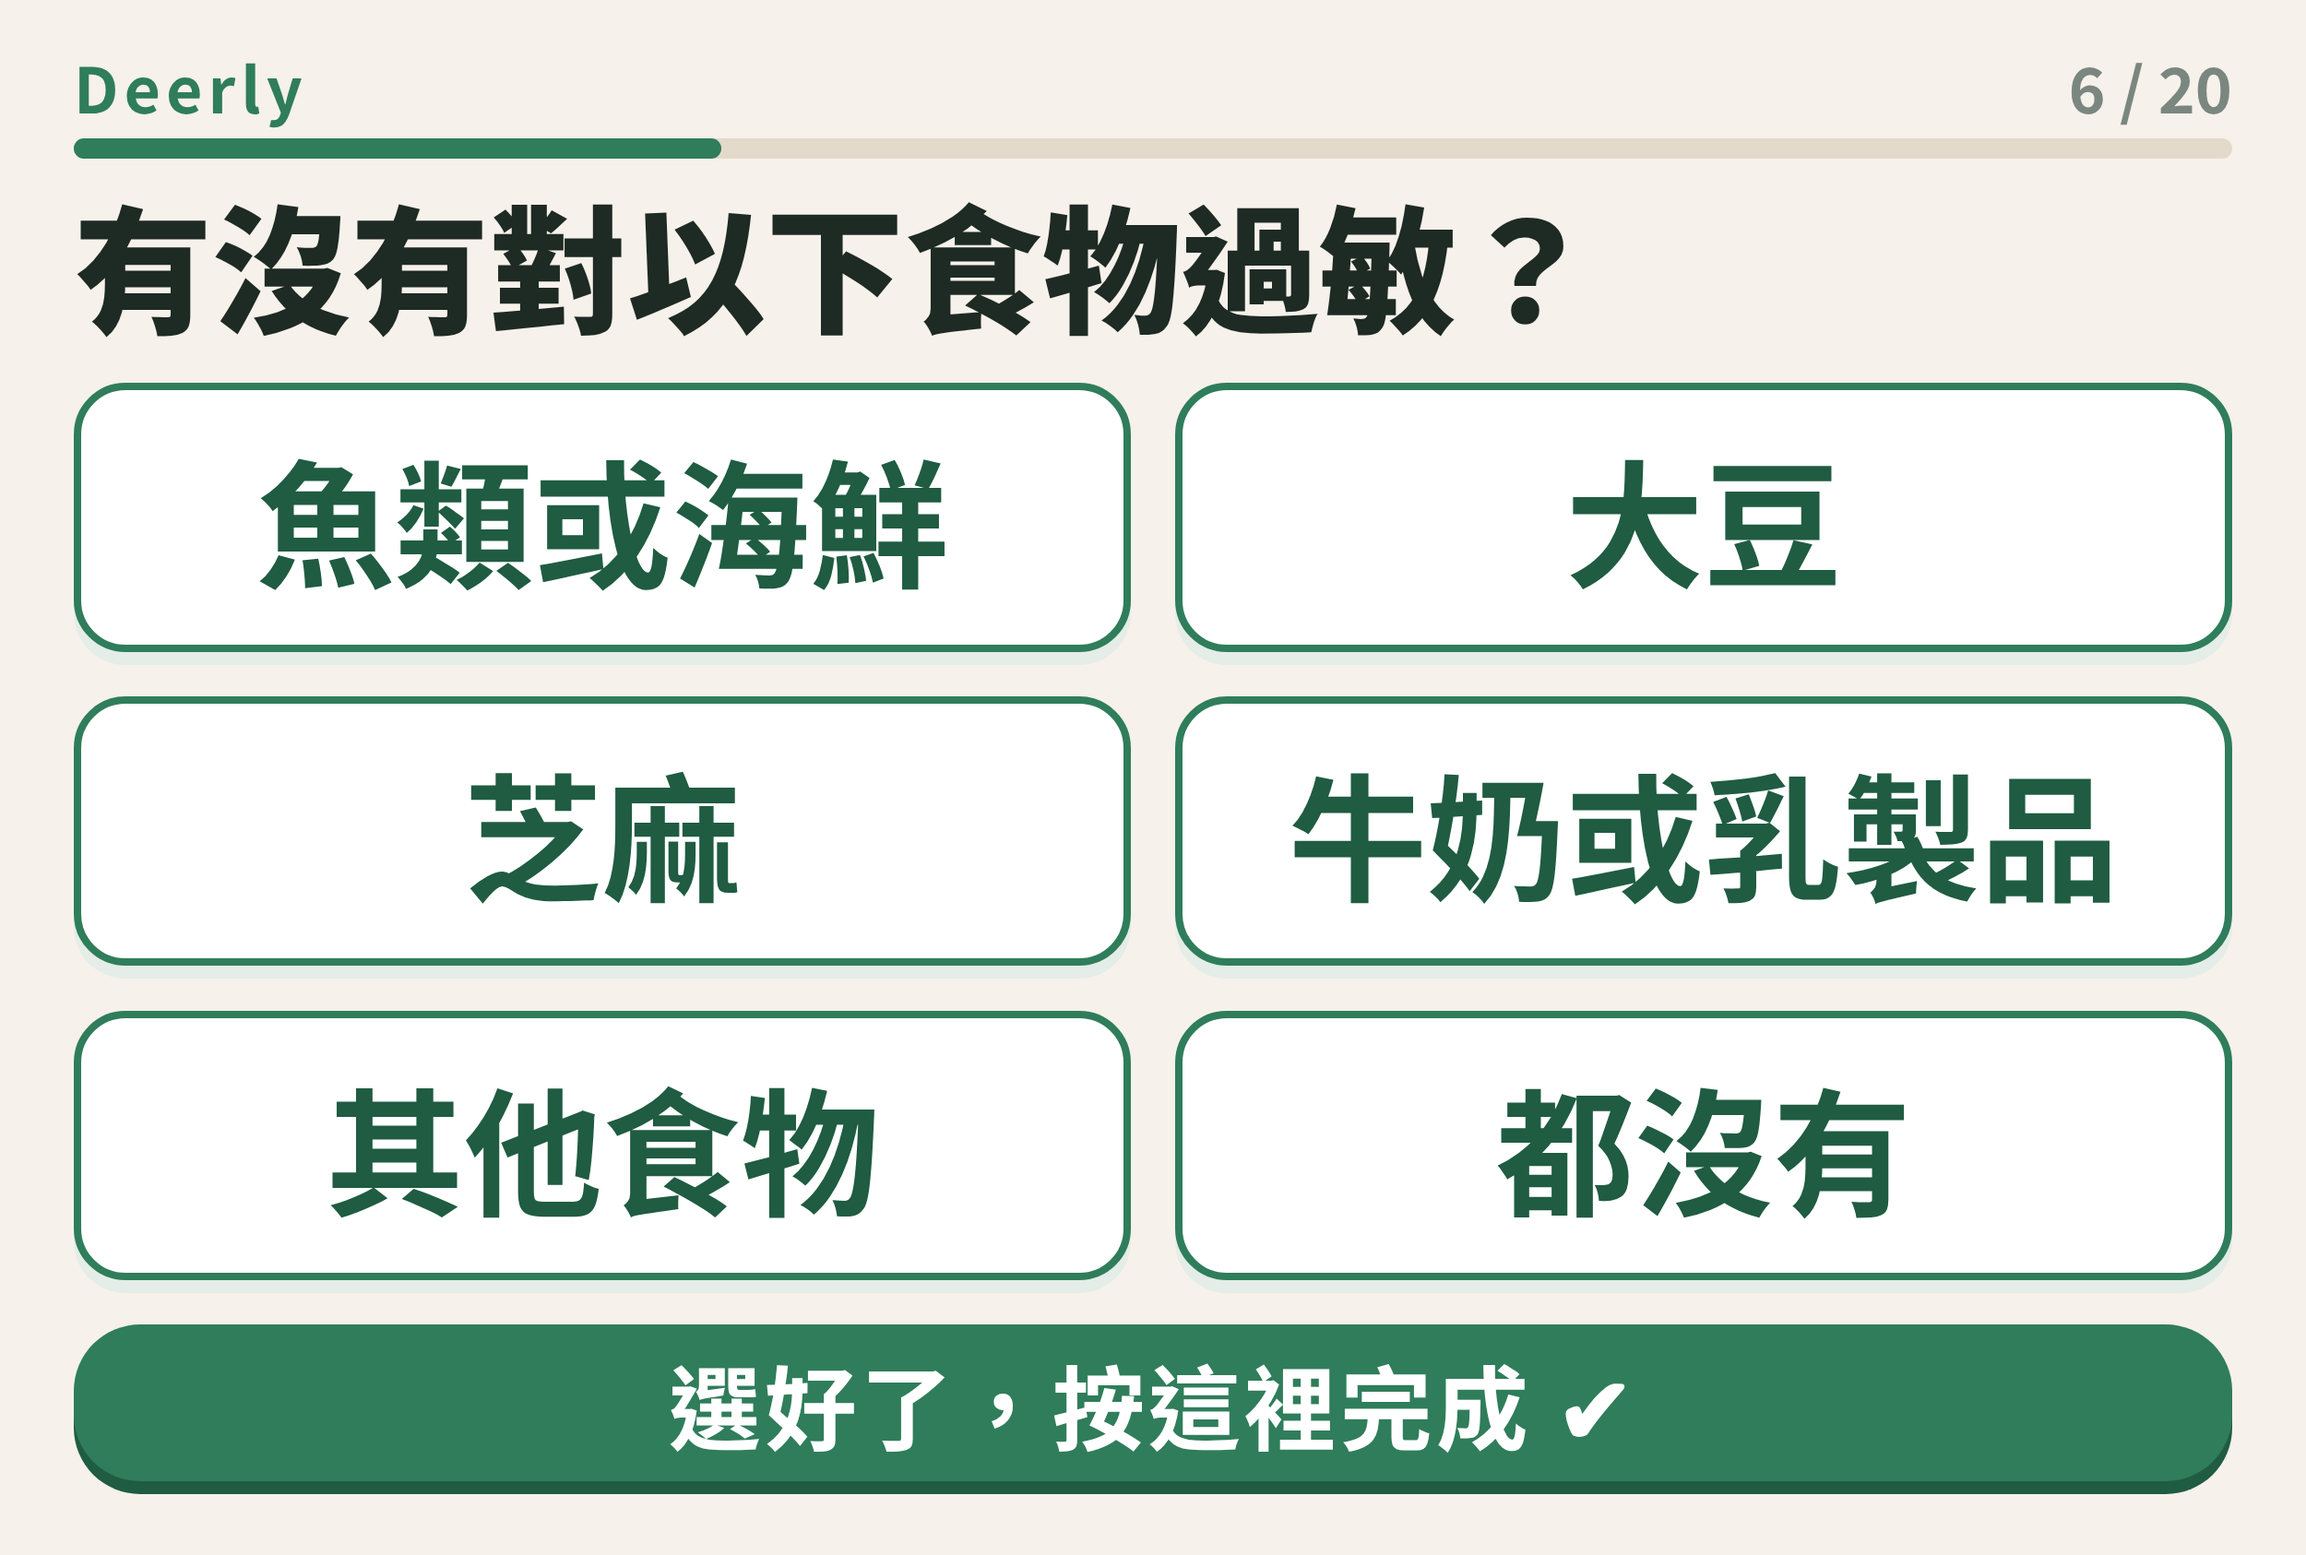
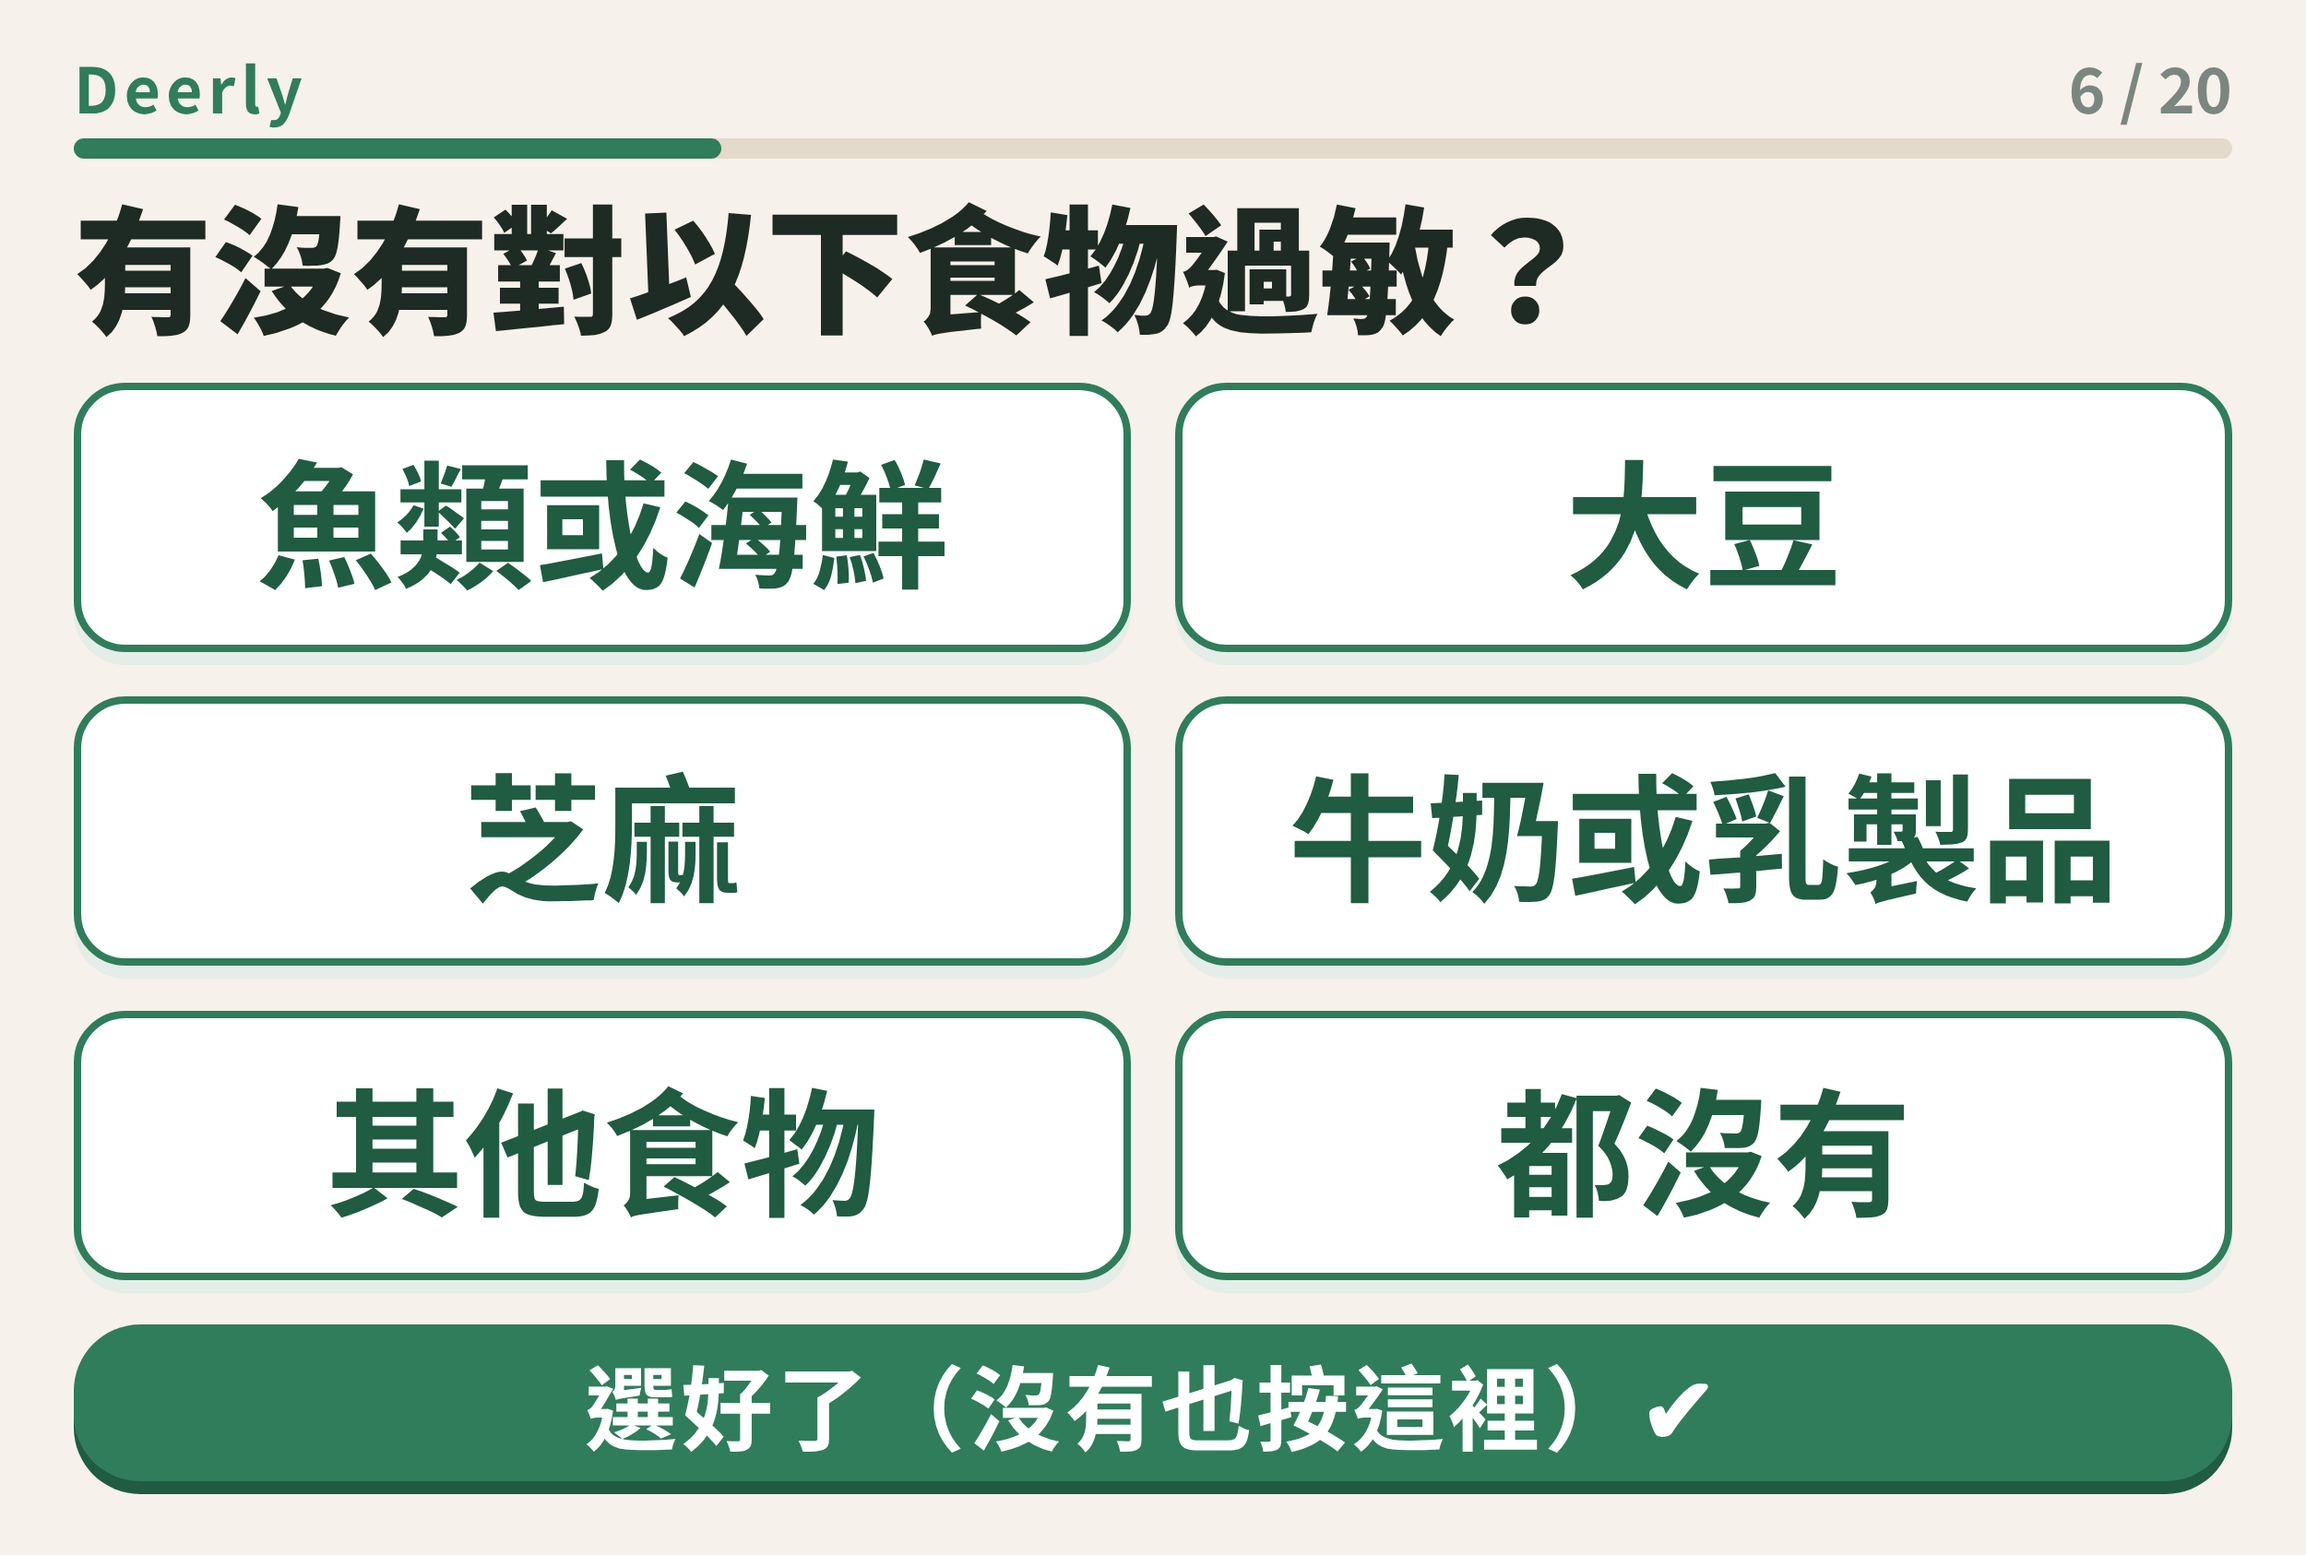
複選題空選視為「都沒有」；掃描頁標題置中、說明精簡並註明影像不儲存；偵測框改半透明品牌色塊
Claude-Session: https://claude.ai/code/session_01UspgBCkKGVVe1bFEQQRBEs

Changed region(s): [[0.2496, 0.8636, 0.7488, 0.9561]]

diff --git a/backend/linebot/handler.ts b/backend/linebot/handler.ts
@@ -130,7 +130,7 @@ async function askQuestion(sub: string, replyToken: string, s: Session, notice?:
   const q = QS.find((x) => x.id === s.cur)!;
   const n = QS.filter((x) => isShown(x, s.answers)).indexOf(q) + 1;
   const total = QS.filter((x) => isShown(x, s.answers)).length;
-  const text = `（${n}/${total}）${q.text}${q.hint ? `\n${q.hint}` : ""}${q.type === "multi" ? `\n${q.max ? `最多選 ${q.max} 項。` : ""}點選項加入、再點一次取消，選好請按選單最下面的「完成」。` : ""}`;
+  const text = `（${n}/${total}）${q.text}${q.hint ? `\n${q.hint}` : ""}${q.type === "multi" ? `\n${q.max ? `最多選 ${q.max} 項。` : ""}點選項加入、再點一次取消，選好請按選單最下面的「完成」。${q.options.some((o) => o.exclusive) ? "都沒有的話，直接按「完成」就可以。" : ""}` : ""}`;
   const back = s.history.length ? [{ label: "‹ 上一題", data: "back" }] : [];
   const messages: unknown[] = [];
   if (notice) messages.push({ type: "text", text: notice });
@@ -178,7 +178,7 @@ async function finish(sub: string, replyToken: string, s: Session) {
 }
 
 // 套用一個答案後往下走
-async function advance(sub: string, replyToken: string, s: Session, q: Q) {
+async function advance(sub: string, replyToken: string, s: Session, q: Q, notice?: string) {
   const rejectOpt = q.options.find((o) => o.reject && [].concat(s.answers[q.id] as never).includes(o.value as never));
   if (rejectOpt) {
     await clearSession(s.user_id);
@@ -193,7 +193,7 @@ async function advance(sub: string, replyToken: string, s: Session, q: Q) {
   s.cur = nq.id;
   s.multi = [];
   await saveSession(s);
-  return askQuestion(sub, replyToken, s);
+  return askQuestion(sub, replyToken, s, notice);
 }
 
 const startQuick = quick([{ label: "開始問卷", text: "開始問卷" }]);
@@ -298,7 +298,13 @@ async function onPostback(sub: string, replyToken: string, data: string) {
     return reply(replyToken, [{ type: "text", text: `${notice ? notice + "\n" : ""}${now}\n（再點一次可取消，選好請按「完成」）` }]);
   }
   if (kind === "d" && q.type === "multi") {
-    if (!s.multi.length) return askQuestion(sub, replyToken, s, "請至少選一項，沒有的話選「都沒有」。");
+    if (!s.multi.length) {
+      // 什麼都沒選就按完成，視為「都沒有」；沒有這個選項的題目（如重點關注）才要求至少選一項
+      const none = q.options.find((o) => o.exclusive);
+      if (!none) return askQuestion(sub, replyToken, s, "請至少選一項。");
+      s.answers[q.id] = [none.value];
+      return advance(sub, replyToken, s, q, `沒有選的話，記為「${none.chip ?? none.label}」。`);
+    }
     s.answers[q.id] = [...s.multi];
     return advance(sub, replyToken, s, q);
   }

diff --git a/backend/linebot/index.ts b/backend/linebot/index.ts
@@ -359,7 +359,7 @@ async function askQuestion(sub: string, replyToken: string, s: Session, notice?:
   const q = QS.find((x) => x.id === s.cur)!;
   const n = QS.filter((x) => isShown(x, s.answers)).indexOf(q) + 1;
   const total = QS.filter((x) => isShown(x, s.answers)).length;
-  const text = `（${n}/${total}）${q.text}${q.hint ? `\n${q.hint}` : ""}${q.type === "multi" ? `\n${q.max ? `最多選 ${q.max} 項。` : ""}點選項加入、再點一次取消，選好請按選單最下面的「完成」。` : ""}`;
+  const text = `（${n}/${total}）${q.text}${q.hint ? `\n${q.hint}` : ""}${q.type === "multi" ? `\n${q.max ? `最多選 ${q.max} 項。` : ""}點選項加入、再點一次取消，選好請按選單最下面的「完成」。${q.options.some((o) => o.exclusive) ? "都沒有的話，直接按「完成」就可以。" : ""}` : ""}`;
   const back = s.history.length ? [{ label: "‹ 上一題", data: "back" }] : [];
   const messages: unknown[] = [];
   if (notice) messages.push({ type: "text", text: notice });
@@ -407,7 +407,7 @@ async function finish(sub: string, replyToken: string, s: Session) {
 }
 
 // 套用一個答案後往下走
-async function advance(sub: string, replyToken: string, s: Session, q: Q) {
+async function advance(sub: string, replyToken: string, s: Session, q: Q, notice?: string) {
   const rejectOpt = q.options.find((o) => o.reject && [].concat(s.answers[q.id] as never).includes(o.value as never));
   if (rejectOpt) {
     await clearSession(s.user_id);
@@ -422,7 +422,7 @@ async function advance(sub: string, replyToken: string, s: Session, q: Q) {
   s.cur = nq.id;
   s.multi = [];
   await saveSession(s);
-  return askQuestion(sub, replyToken, s);
+  return askQuestion(sub, replyToken, s, notice);
 }
 
 const startQuick = quick([{ label: "開始問卷", text: "開始問卷" }]);
@@ -527,7 +527,13 @@ async function onPostback(sub: string, replyToken: string, data: string) {
     return reply(replyToken, [{ type: "text", text: `${notice ? notice + "\n" : ""}${now}\n（再點一次可取消，選好請按「完成」）` }]);
   }
   if (kind === "d" && q.type === "multi") {
-    if (!s.multi.length) return askQuestion(sub, replyToken, s, "請至少選一項，沒有的話選「都沒有」。");
+    if (!s.multi.length) {
+      // 什麼都沒選就按完成，視為「都沒有」；沒有這個選項的題目（如重點關注）才要求至少選一項
+      const none = q.options.find((o) => o.exclusive);
+      if (!none) return askQuestion(sub, replyToken, s, "請至少選一項。");
+      s.answers[q.id] = [none.value];
+      return advance(sub, replyToken, s, q, `沒有選的話，記為「${none.chip ?? none.label}」。`);
+    }
     s.answers[q.id] = [...s.multi];
     return advance(sub, replyToken, s, q);
   }

diff --git a/index.html b/index.html
@@ -8,7 +8,7 @@
   :root{--bg:#faf8f5;--fg:#222;--mut:#777;--ac:#2f7d5b;--card:#fff}
   @media (prefers-color-scheme:dark){:root{--bg:#161616;--fg:#eee;--mut:#999;--ac:#5cc79a;--card:#222}}
   body{margin:0;padding:16px;background:var(--bg);color:var(--fg);font:16px/1.5 -apple-system,"Noto Sans TC",sans-serif;max-width:480px;margin:auto}
-  h1{font-size:20px;margin:8px 0}
+  h1{font-size:22px;margin:8px 0;text-align:center}
   .box{position:relative;background:#000;border-radius:12px;overflow:hidden;aspect-ratio:3/4}
   video{width:100%;height:100%;object-fit:cover;transform:scaleX(-1)}
   #ovtxt{position:absolute;left:0;right:0;top:12px;text-align:center;color:#fff;text-shadow:0 1px 6px rgba(0,0,0,.6);pointer-events:none}
@@ -51,7 +51,7 @@
 </head>
 <body>
 <h1>今日電量</h1>
-<p class="mut" id="intro">請在明亮、均勻的光線下，臉對著前鏡頭，手機放穩，30 秒內不要說話或大幅移動。</p>
+<p class="mut" id="intro" style="text-align:center">明亮光線下正對鏡頭、手機放穩，30 秒別說話。<br>影像不會儲存，只留下數字。</p>
 <div class="box"><video id="v" playsinline muted></video><canvas id="ov"></canvas><div id="ovtxt" hidden></div><div id="qc" hidden><span id="qf"></span><span id="ql"></span><span id="qm"></span></div></div>
 <button id="go">開始（會要求使用前鏡頭）</button>
 <div class="card">
@@ -330,8 +330,8 @@ async function run() {
             const rgb = [0, 1, 2].map(c => parts.reduce((s, p) => s + p.m[c], 0) / parts.length);
             rows.push({ t: (now - t0) / 1000, rgb });
             lq = liveQuality(lm, rgb);
-            octx.strokeStyle = '#5cc79a'; octx.lineWidth = 3;
-            parts.forEach(p => octx.strokeRect(...p.box));
+            octx.fillStyle = 'rgba(92,199,154,0.30)'; octx.strokeStyle = 'rgba(255,255,255,0.45)'; octx.lineWidth = 2;
+            parts.forEach(p => { octx.beginPath(); octx.roundRect ? octx.roundRect(...p.box, 14) : octx.rect(...p.box); octx.fill(); octx.stroke(); });
           }
           noFace = 0;
         } else { noFace++; if (noFace > 5) { $('qf').textContent = '找不到臉'; $('qf').className = 'bad'; } }
